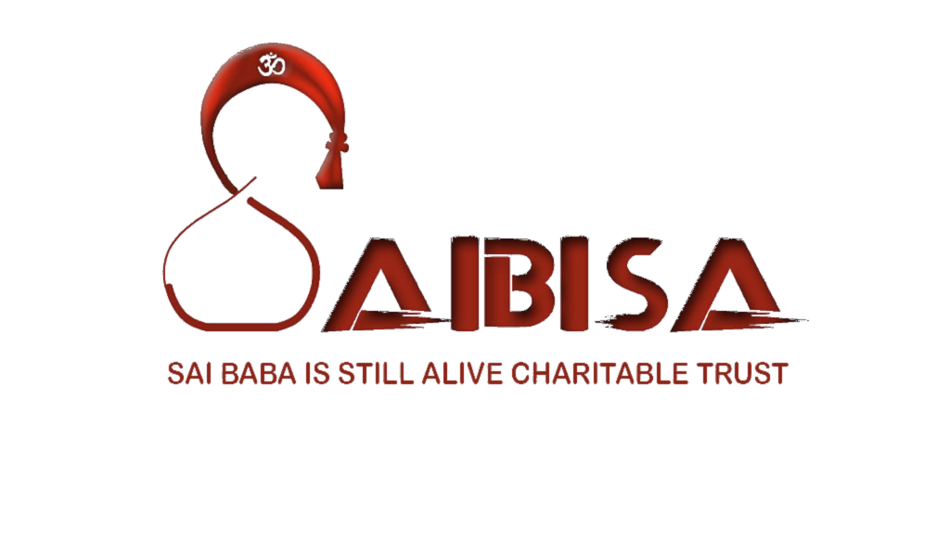
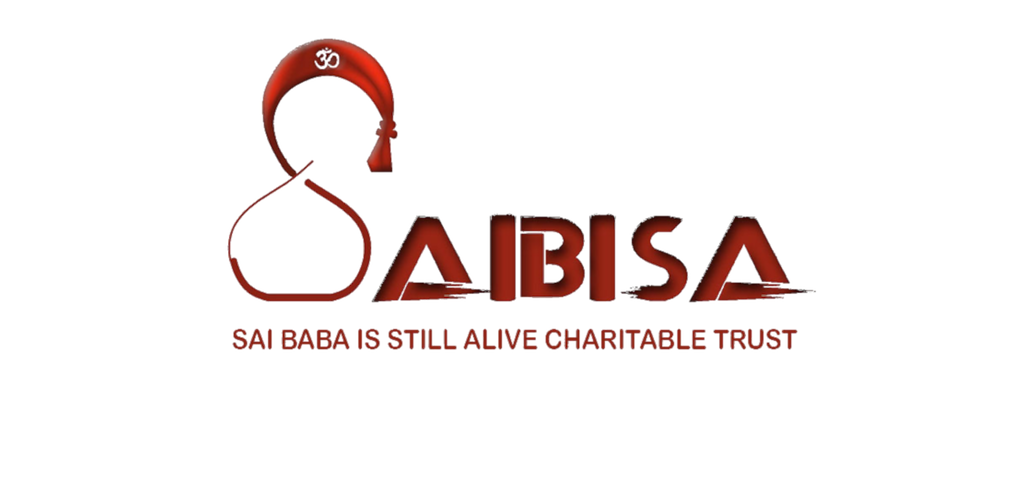
cleanup oh background image handling for home page

Changed region(s): [[0.1526, 0.06, 0.8547, 0.63], [0.1526, 0.66, 0.8242, 0.72]]

diff --git a/src/pages/home/home.scss b/src/pages/home/home.scss
@@ -5,17 +5,17 @@ page-home {
     .splash-bg {
         position: relative;
         // background: url('../assets/img/static-app-banner.jpg') no-repeat transparent;
-        background-size: cover;
-        height: 45%;
+        background-size: contain;
+        height: 35%;
         z-index: 1;
         background-repeat: repeat-x;
-        animation: animatedBackground 40s linear infinite;
+        // animation: animatedBackground 40s linear infinite;
       }
     
-      @keyframes animatedBackground {
-        from { background-position: 0 0; }
-        to { background-position: 100% 0; }
-      }
+      // @keyframes animatedBackground {
+      //   from { background-position: 0 0; }
+      //   to { background-position: 100% 0; }
+      // }
     
       .splash-info {
         position: relative;
@@ -37,9 +37,12 @@ page-home {
         margin: auto;
       }
 
-    .mb-message{
-        font-size: 16px;
-        color: #1b1c1d;
-        text-shadow: 0 1px 1px rgba(255,255,255,0.1);
-    }
+      div.message {
+        padding: 0px 10px 0px 10px;
+        p.message{
+            font-size: 16px;
+            color: #1b1c1d;
+            text-shadow: 0 1px 1px rgba(255,255,255,0.1);
+        }
+      }
 }

diff --git a/src/directives/background-image/background-image.ts b/src/directives/background-image/background-image.ts
@@ -1,0 +1,26 @@
+import { Directive, ElementRef, Input, Renderer2, SimpleChanges } from '@angular/core';
+
+@Directive({
+  selector: '[background-image]'
+})
+export class BackgroundImageDirective {
+  private el: HTMLElement;
+  @Input('background-image') backgroundImage: string;
+
+  constructor(private renderer: Renderer2, private elRef: ElementRef) {
+    this.el = this.elRef.nativeElement;    
+  }
+
+  ngAfterViewInit() {
+    this.setBackgroundImage();
+  }
+  
+  ngOnChanges(changes: SimpleChanges) {
+    if ( changes['backgroundImage'] ) 
+      this.setBackgroundImage();
+  }
+  
+  setBackgroundImage(){
+    this.renderer.setStyle(this.el, "backgroundImage", `url(${ this.backgroundImage })`);
+  }
+}

diff --git a/src/pages/home/home.html b/src/pages/home/home.html
@@ -7,13 +7,12 @@
   </ion-navbar>
 </ion-header>
 <ion-content scroll="false">
-    <div class="splash-bg" [ngStyle]="{ 'background-image': 'url(' + splashBg + ')'}"></div>
+  <div class="splash-bg" background-image="{{ splashBg }}">
+  </div>
     <div class="splash-info">
-      <div class="splash-logo" [ngStyle]="{ 'background-image': 'url(' + splashLogo + ')'}"></div>
+      <div class="splash-logo" background-image="{{ splashLogo }}"></div>
       <div class="splash-intro" [textContent]="msgTitle"></div>
-      <div>
-        <p class="mb-message" [textContent]="msgContent"></p>
-      </div>
+      <div class="message" [innerHTML]="msgContent"></div>
     </div>
 </ion-content>
   

diff --git a/src/pages/home/home.module.ts b/src/pages/home/home.module.ts
@@ -1,13 +1,15 @@
 import { NgModule } from '@angular/core';
 import { IonicPageModule } from 'ionic-angular';
 import { HomePage } from './home';
+import { DirectivesModule } from '../../directives/directives.module';
 
 @NgModule({
   declarations: [
-    HomePage,
+    HomePage
   ],
   imports: [
     IonicPageModule.forChild(HomePage),
+    DirectivesModule
   ],
 })
 export class HomePageModule {}

diff --git a/src/pages/home/home.ts b/src/pages/home/home.ts
@@ -16,7 +16,7 @@ export class HomePage {
   msgContent: string = '';
   slides: any;
   splashBg: string = '../assets/img/static-app-banner.png';
-  splashLogo: string = '../assets/img/dii.png';
+  splashLogo: string = '../assets/img/splash-logo-loading.png';
 
   constructor(
     public navCtrl: NavController,

diff --git a/src/directives/directives.module.ts b/src/directives/directives.module.ts
@@ -1,0 +1,8 @@
+import { NgModule } from '@angular/core';
+import { BackgroundImageDirective } from './background-image/background-image';
+@NgModule({
+	declarations: [BackgroundImageDirective],
+	imports: [],
+	exports: [BackgroundImageDirective]
+})
+export class DirectivesModule {}
